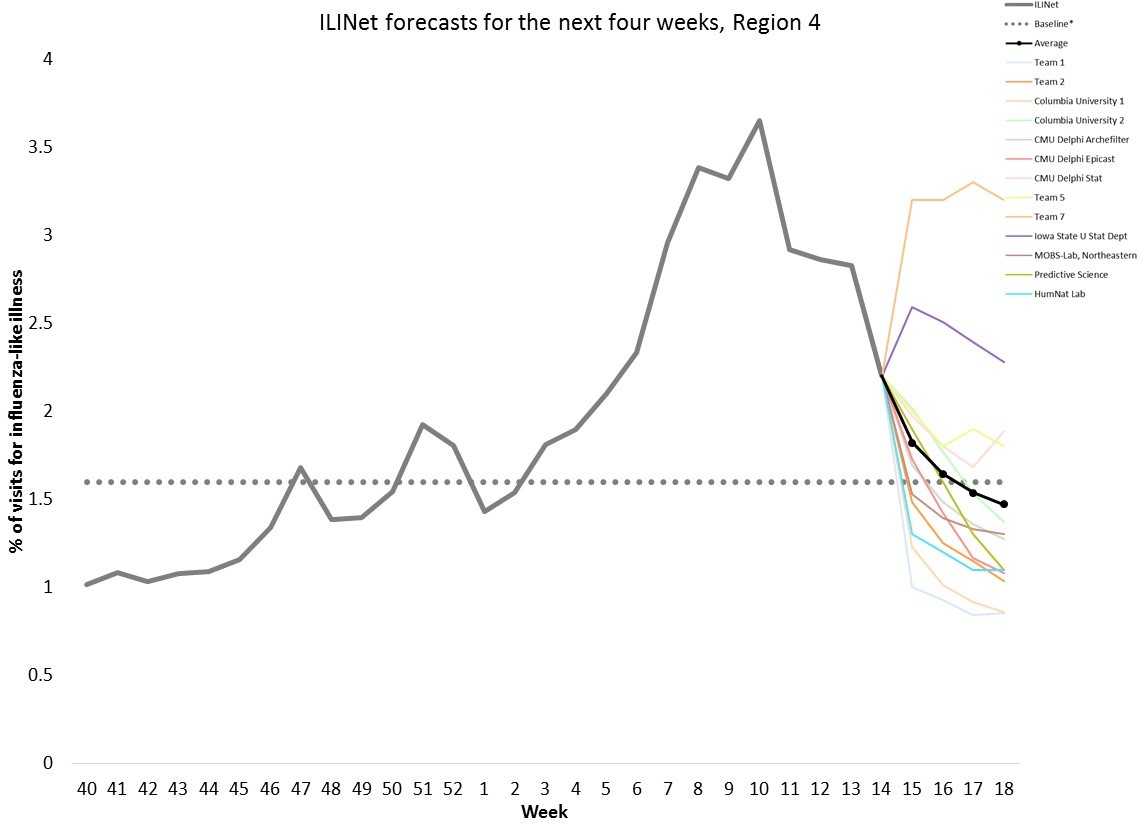
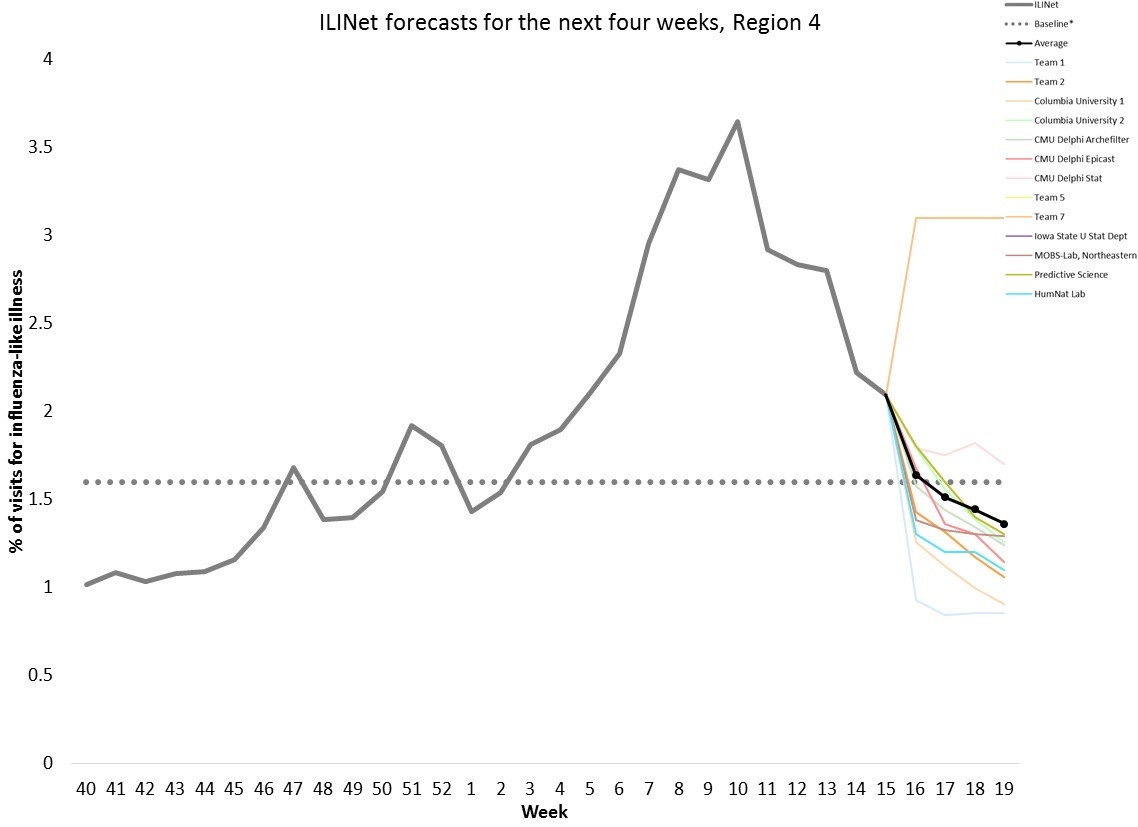
update apr 26

diff --git a/flu/forecasts.html b/flu/forecasts.html
@@ -97,7 +97,7 @@
    <div class="row col-xs-12" style="height:10px;"></div>
 </div>-->
 <div class="row">
-   <div><h5>Last update: April 19, 2016</h5></div>
+   <div><h5>Last update: April 26, 2016</h5></div>
 </div>
 
 <ul class="nav nav-tabs nav-justified">
